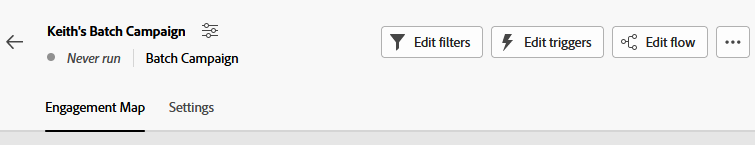
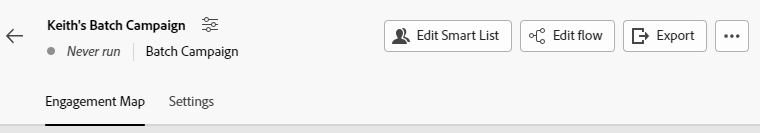
publish engagement map docs

diff --git a/help/marketo/product-docs/core-marketo-concepts/engagement-map/engagement-map-tab.md b/help/marketo/product-docs/core-marketo-concepts/engagement-map/engagement-map-tab.md
@@ -1,8 +1,6 @@
 ---
 description: Engagement Map Tab - Marketo Docs - Product Documentation
 title: Engagement Map Tab
-hide: yes
-hidefromtoc: yes
 exl-id: f54b9258-451b-4607-b5a9-f8627c6f420a
 ---
 # Engagement Map Tab {#engagement-map-tab}
@@ -13,114 +11,102 @@ Trigger Overview: This card shows the number of triggers in your campaign. Click
 
 * Campaign the trigger belongs to
 * List of trigger names
-* "Edit Trigger" button
+* Edit Trigger
 
    ![](assets/engagement-map-tab-1.png)
 
-Trigger Detail: This card shows trigger name. Clicking on it will reveal a slide-out panel with the following information: 
+Trigger Detail: This card shows the trigger name. Clicking on it will reveal a slide-out panel with the following information: 
 
 * Campaign the trigger belongs to
 * List of constraints associated with the trigger
-* "Edit Trigger" button
-
-   ![](assets/engagement-map-tab-2.png)
+* Edit Trigger
 
 Filter: Clicking on this card will reveal a slide-out panel with the following information:
 
-* Campaign the trigger belongs to
+* Campaign the filter belongs to
 * Estimated number of people who qualify for the filter
 * List of filters and their respective constraints
-* "Edit Filter" button
+* Edit Filter
 
    ![](assets/engagement-map-tab-3.png)
 
-Flow steps: If a flow step includes choices, this card will show name of the flow step. Clicking on it will reveal a slide-out panel with the following information:
+Flow Steps: If a Flow Step includes choices, this card will show the name of the Flow Step. Clicking on it will reveal a slide-out panel with the following information:
 
-* Campaign the Flow step belongs to 
-* List of choice conditions associated to the flow step
-* "Edit Flow" button
+* Campaign the Flow Step belongs to 
+* List of choice conditions associated to the Flow Step
+* Edit Flow Step
 
-   ![](assets/engagement-map-tab-4.png)
+Flow Steps: If a Flow Step does _not_ include any choices, this card will show the attributes associated to the Flow Step. Clicking on it will reveal a slide-out panel with the following information:
 
-Flow steps: If a flow step does _not_ include any choices, this card will show attributes associated to the flow step. Clicking on it will reveal a slide-out panel with the following information:
-
-* Campaign the Flow step belongs to
-* List of attributes associated to the flow step
-* "Edit Flow" button
+* Campaign the Flow Step belongs to
+* List of attributes associated to the Flow Step
+* Edit Flow Step
 
    ![](assets/engagement-map-tab-5.png)
 
 ## Flow Step for Execute and Request Campaigns {#flow-step-for-execute-and-request-campaigns}
 
-* If the Execute or Request Campaign flow step does not include any choices, the card will show the name of the campaign. Clicking on the card will reveal a slide-out panel with the following information:
+* If the Execute or Request Campaign Flow Step does not include any choices, the card will show the name of the campaign. Clicking on the card will reveal a slide-out panel with the following information:
 
-   * Campaign the flow step belongs to 
-   * "Edit Flow" button 
-   * List of attributes associated to the flow step 
+   * Campaign the Flow Step belongs to 
+   * Edit Flow Step
+   * List of attributes associated to the Flow Step 
    * "View List" button, which opens a list of campaigns that use the specific Request/Execute Campaign
 
 >[!NOTE]
 >
->You can edit the flow step(s) from a primary campaign. To edit nested campaigns, you'll have to navigate to the campaign via the link in the slide-out panel.  
+>You can edit the Flow Step(s) from a primary campaign. To edit nested campaigns, you'll have to navigate to the campaign via the link in the slide-out panel.
 
-   ![](assets/engagement-map-tab-6.png)
+* If the Execute or Request Campaign Flow Step includes choices, clicking on the card will reveal a slide-out panel with the following information: 
 
-   ![](assets/engagement-map-tab-7.png)
+   * Campaign the Flow Step belongs to
+   * List of choice conditions associated to the Flow Step
+   * Edit Flow Step
 
-* If the Execute or Request Campaign flow step includes choices, the card will show the name of the campaign. Clicking on the card will reveal a slide-out panel with the following information: 
-
-   * Campaign the flow step belongs to
-   * List of choice conditions associated to the flow step
-   * "Edit Flow" button
-
-   ![](assets/engagement-map-tab-8.png)
-
-   ![](assets/engagement-map-tab-9.png)
-
-* If an Execute or Request Campaign includes choices, clicking on the flow card will expand to show all choices in individual cards. Clicking on the choice card will expand the campaign associated to the specific choice as well as reveal a slide-out panel with the following information:
+* If an Execute or Request Campaign includes choices, clicking on the flow card will expand to show all choices in individual cards. Clicking on the _choice_ card will expand the campaign associated to the specific choice as well as reveal a slide-out panel with the following information:
 
    * Campaign the choice belongs to
-   * "Edit Choice" button
-   * List of choice conditions associated to the flow step
-   * "View List" button, which opens a list of campaigns that use the specific Request/Execute Campaign
+   * Edit choice
+   * List of choice conditions associated to the Flow Step
+   * View list, which opens a list of campaigns that use the specific Request/Execute Campaign
 
    ![](assets/engagement-map-tab-10.png)
 
 ## Visualizing a Nested Execute Campaign {#visualizing-a-nested-execute-campaign}
 
-Execute campaigns run in series with the parent campaign. People that qualify for an executable campaign complete all flow steps from the campaign and return to the primary campaign to continue through the flow steps of this campaign.
+Execute campaigns run in series with the parent campaign. People that qualify for an executable campaign complete all Flow Steps from the campaign and return to the primary campaign to continue through the Flow Steps of this campaign.
 
-Below is an example of a Smart Campaign, "Campaign A," which includes an execute campaign flow step. Think of "Campaign A" as your primary campaign. 
+Below is an example of a Smart Campaign, "Campaign A," which includes an execute campaign Flow Step. Think of "Campaign A" as your primary campaign. 
 
    ![](assets/engagement-map-tab-11.png)
 
 1. Clicking on the execute campaign flow card will expand to show details of "Campaign B".
 1. "Campaign B" includes a filter that splits the audience into two groups: qualified and not qualified.  
-1. Qualified audience goes through the flow steps associated to "Campaign B."
-1. All audience (qualified and not qualified) return to "Campaign A" and move on to the next flow step.
+1. Qualified audience goes through the Flow Steps associated to "Campaign B."
+1. All audience (qualified and not qualified) return to "Campaign A" and move on to the next Flow Step.
 
    ![](assets/engagement-map-tab-12.png)
 
-You can click on the Execute Campaign flow step in "Campaign B" which will expand to show the choice cards and campaign associated with each choice.
+You can click on the Execute Campaign Flow Step in "Campaign B" which will expand to show the choice cards and campaign associated with each choice.
 
    ![](assets/engagement-map-tab-13.png)
 
 ## Visualizing Request Campaign {#visualizing-request-campaign}
 
-Request campaigns run in parallel with the parent campaign. People that qualify for a request campaign complete all the flow steps from the campaign and then exit the campaign. Concurrently, the same set of people go through the flow steps from the primary campaign. 
+Request campaigns run in parallel with the parent campaign. People that qualify for a request campaign complete all the Flow Steps from the campaign and then exit the campaign. Concurrently, the same set of people go through the Flow Steps from the primary campaign. 
 
-Here's an example of a Smart Campaign, "Campaign A," which includes a request campaign flow step. Think of "Campaign A" as your primary campaign.
+Here's an example of a Smart Campaign, "Campaign A," which includes a request campaign Flow Step. Think of "Campaign A" as your primary campaign.
 
    ![](assets/engagement-map-tab-14.png)
 
 1. Clicking on the request campaign flow card will expand to show the details of "Campaign B" 
 1. "Campaign B" includes a filter that splits the audience into two groups: qualified and not qualified.    
-1. Qualified audience goes through the flow steps associated to "Campaign B."
-1. At the same time, all audience moves to the next flow steps in "Campaign A." 
+1. Qualified audience goes through the Flow Steps associated to "Campaign B."
+1. At the same time, all audience moves to the next Flow Steps in "Campaign A." 
 
    ![](assets/engagement-map-tab-15.png)
 
-You can dive deeper into your nested campaigns if any of the flow steps include another request campaign by clicking on the flow card to view the details of the campaign.
+You can dive deeper into your nested campaigns if any of the Flow Steps include another request campaign by clicking on the flow card to view the details of the campaign.
 
    ![](assets/engagement-map-tab-16.png)
 
@@ -130,13 +116,9 @@ Here's an example of a request campaign with choices.
 
 ## Error Handling {#error-handling}
 
-Errors in Smart Lists and flow steps will be highlighted via an error icon in the card. Additionally, a corresponding error message will be reflected in the slide-out panel.
+Errors in Smart Lists and Flow Steps will be highlighted via an error icon in the card. Additionally, a corresponding error message will be reflected in the slide-out panel.
 
 Below is an example of an error in a trigger which shows in the trigger overview card, slide-out panel, and the detail trigger card.
-
-   ![](assets/engagement-map-tab-18.png)
-
-   ![](assets/engagement-map-tab-19.png)
 
 **Errors in filter cards can include:**
 

diff --git a/help/marketo/product-docs/core-marketo-concepts/engagement-map/engagement-map-overview.md b/help/marketo/product-docs/core-marketo-concepts/engagement-map/engagement-map-overview.md
@@ -1,8 +1,6 @@
 ---
 description: Engagement Map Overview - Marketo Docs - Product Documentation
 title: Engagement Map Overview
-hide: yes
-hidefromtoc: yes
 exl-id: 0b445ac7-bfa4-4f86-bb92-86d4d982555e
 ---
 # Engagement Map Overview {#engagement-map-overview}
@@ -27,19 +25,19 @@ Once in the Engagement Map, you'll see two tabs: [Engagement Map](/help/marketo/
 
 ## Card Descriptions {#card-descriptions}
 
-**Triggers**: In campaigns that include triggers, the map will have a "Trigger Overview" card. Clicking on this will reveal a card for each trigger, as well a slide-out panel with additional information.
+**Triggers**: In campaigns that include triggers, the map will have a "Trigger Overview" card. Clicking on this will reveal a card for each trigger, as well as a slide-out panel with additional information.
 
-**Filters**: In campaigns that include filters, the map will contain a card for each one. Clicking on them will reveal a slide-out panel with additional information.
+**Filters**: In campaigns that include filters, the map will contain a Filter Overview card. Clicking on it will reveal a slide-out panel with additional information on each filter.
 
 **Flow Steps**: Each campaign will include a card for each flow step. Clicking on them will reveal a slide-out panel with additional information.
 
-**Choices**: If a flow step includes one or more choices, clicking on the flow card will reveal a card for each choice, as well a slide-out panel with additional information.
+**Choices**: If a flow step includes one or more choices, clicking on the flow card will reveal a card for each choice, as well as a slide-out panel with additional information.
 
 ## Nested Campaigns {#nested-campaigns}
 
 * If a campaign includes a Request or Execute Campaign flow step, clicking on the flow card will show details of the campaign being called as well as a slide-out panel with additional information.
 
-* If a campaign includes a Request or Execute Campaign flow step with choices, clicking on the flow card will show a choices card as well as a slide-out panel with more information about the choices. Clicking on each choice card will show details of the campaign being called as well as a slide-out panel with more information.
+* If a campaign includes a Request or Execute Campaign flow step with choices, clicking on the flow card will show a card for each choice, as well as a slide-out panel with more information about the choices. Clicking on each choice card will show details of the campaign being called as well as a slide-out panel with more information.
 
 * Additionally, if any of the nested campaigns have a Request or Execute Campaign flow step, clicking on the flow card will show details of the campaign. The same is applicable when the flow step includes choices.
 
@@ -53,17 +51,17 @@ The top nav includes the following features:
 
 * Activate/Deactivate button for Trigger campaigns
 
-* Edit Smart List - you will be navigated to Smart List interface in a new tab where you can add or edit your Smart List
+* Edit Smart List - you will be navigated to the Smart List interface in a new tab where you can add or edit your Flow Steps
 
-* Edit Flow - you will be navigated to Flow interface in a new tab where you can add or edit your Smart List
+* Edit Flow - you will be navigated to the Flow interface in a new tab where you can add or edit your Smart List
 
-* Export - This will download an image of campaign visualization. The version downloaded will reflect any branches that you have expanded
+* Export - This will download an image of the campaign visualization. The version downloaded will reflect any branches that you have expanded
 
 * View Campaign Members - This will open a new tab with Campaign Member details.  
 
 >[!NOTE]
 >
->Changes made in an open Smart List and Flow tab will be reflected in the Engagement Map tab upon refresh. It will not automatically update. Updates and edits that are auto-saved will be reflected.
+>Changes made in an open Smart List and Flow tab will be reflected in the Engagement Map tab upon refresh. It will not automatically update. Updates and edits that are auto-saved will be reflected upon refresh of the Engagement Map tab.
 
 ## FAQ {#faq}
 

diff --git a/help/marketo/product-docs/core-marketo-concepts/engagement-map/settings-tab.md b/help/marketo/product-docs/core-marketo-concepts/engagement-map/settings-tab.md
@@ -1,8 +1,6 @@
 ---
 description: Settings Tab - Marketo Docs - Product Documentation
 title: Settings Tab
-hide: yes
-hidefromtoc: yes
 exl-id: 44bb3227-4d77-47db-88ef-aafc2ddf3c74
 ---
 # Settings Tab {#settings-tab}
@@ -39,7 +37,7 @@ The recurrence modal includes the ability to set up a recurring schedule on a da
 
    ![](assets/settings-tab-4.png)
 
-The Settings tab also includes a quick overview of your Smart List. It includes the following: 
+The Settings tab also includes a quick overview of your Smart Campaign. It includes the following: 
 
 * Campaign status 
 * Created on 
